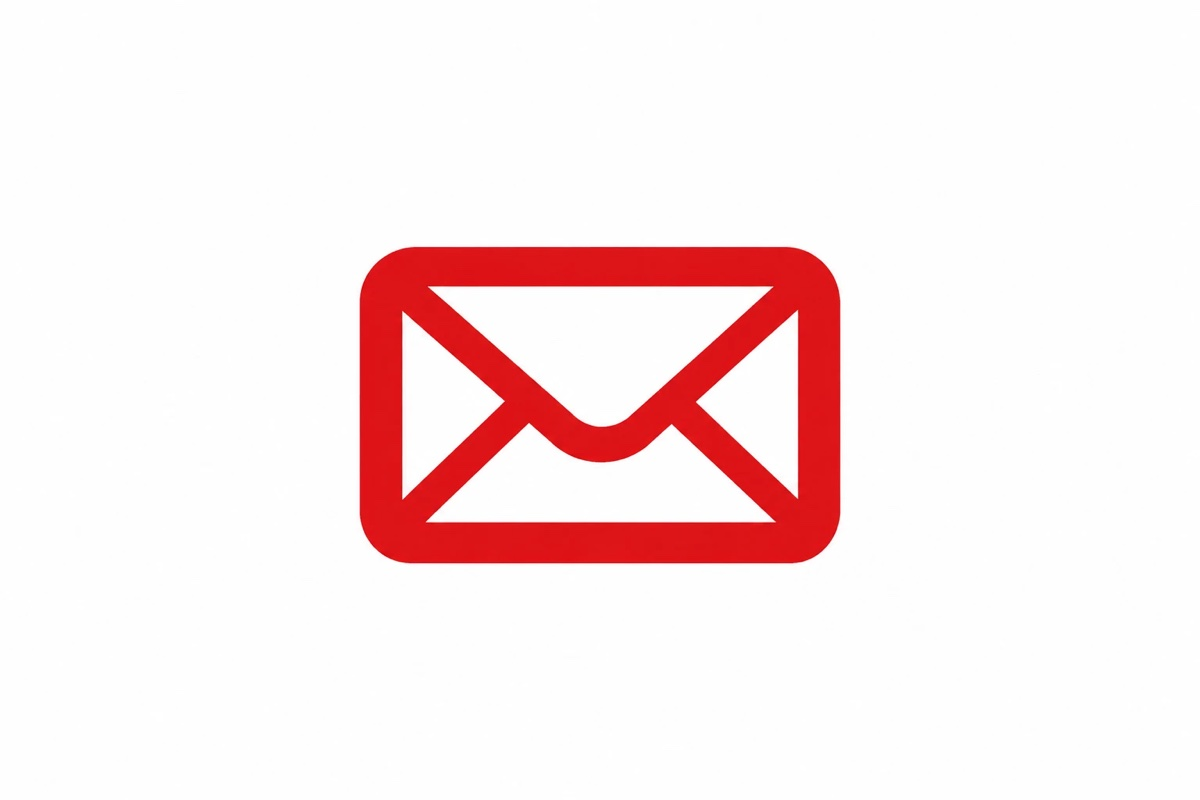
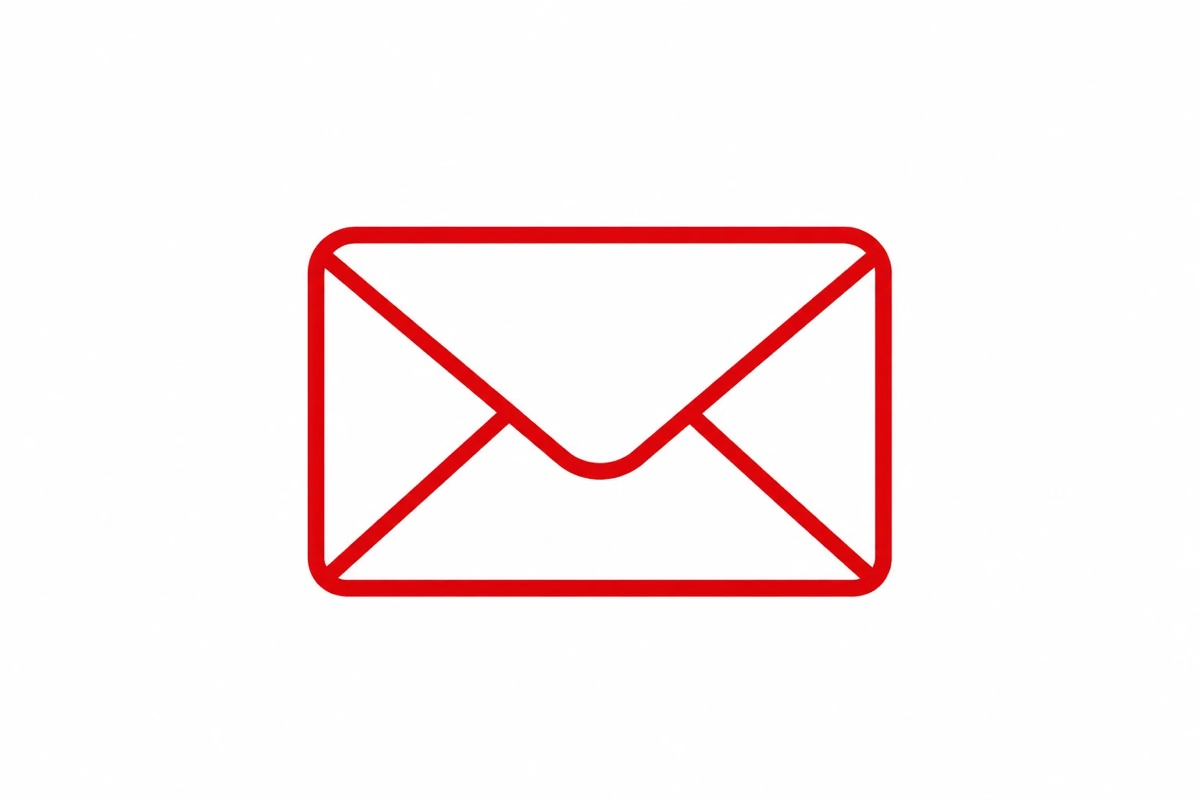
Hlavni stranka: nova ikona obalky v dlazdici Kontakt

Changed region(s): [[0.2467, 0.2812, 0.7708, 0.75]]

diff --git a/en/index.html b/en/index.html
@@ -111,7 +111,7 @@
             </div>
           </a>
           <a class="tile" href="kontakt.html">
-            <div class="tile__img img-slot" style="--img:url('../images/kontakt.jpg'); --img-size:140%"></div>
+            <div class="tile__img img-slot" style="--img:url('../images/kontakt.jpg'); --img-size:115%"></div>
             <div class="tile__body">
               <h3>Contact</h3>
               <p>Address, phone, Street View and a quote request form.</p>

diff --git a/de/index.html b/de/index.html
@@ -111,7 +111,7 @@
             </div>
           </a>
           <a class="tile" href="kontakt.html">
-            <div class="tile__img img-slot" style="--img:url('../images/kontakt.jpg'); --img-size:140%"></div>
+            <div class="tile__img img-slot" style="--img:url('../images/kontakt.jpg'); --img-size:115%"></div>
             <div class="tile__body">
               <h3>Kontakt</h3>
               <p>Adresse, Telefon, Street View und Anfrageformular.</p>

diff --git a/index.html b/index.html
@@ -111,7 +111,7 @@
             </div>
           </a>
           <a class="tile" href="kontakt.html">
-            <div class="tile__img img-slot" style="--img:url('images/kontakt.jpg'); --img-size:140%"></div>
+            <div class="tile__img img-slot" style="--img:url('images/kontakt.jpg'); --img-size:115%"></div>
             <div class="tile__body">
               <h3>Kontakt</h3>
               <p>Adresa, telefon, Street View a formulář pro poptávku.</p>

diff --git a/pl/index.html b/pl/index.html
@@ -111,7 +111,7 @@
             </div>
           </a>
           <a class="tile" href="kontakt.html">
-            <div class="tile__img img-slot" style="--img:url('../images/kontakt.jpg'); --img-size:140%"></div>
+            <div class="tile__img img-slot" style="--img:url('../images/kontakt.jpg'); --img-size:115%"></div>
             <div class="tile__body">
               <h3>Kontakt</h3>
               <p>Adres, telefon, Street View i formularz zapytania.</p>
